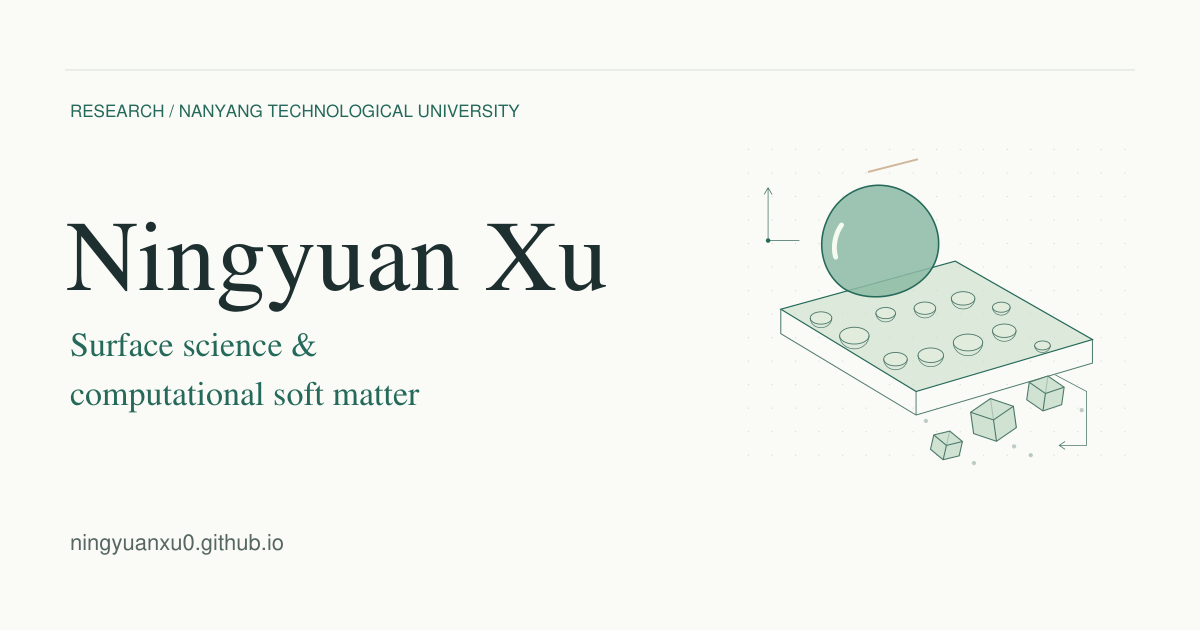
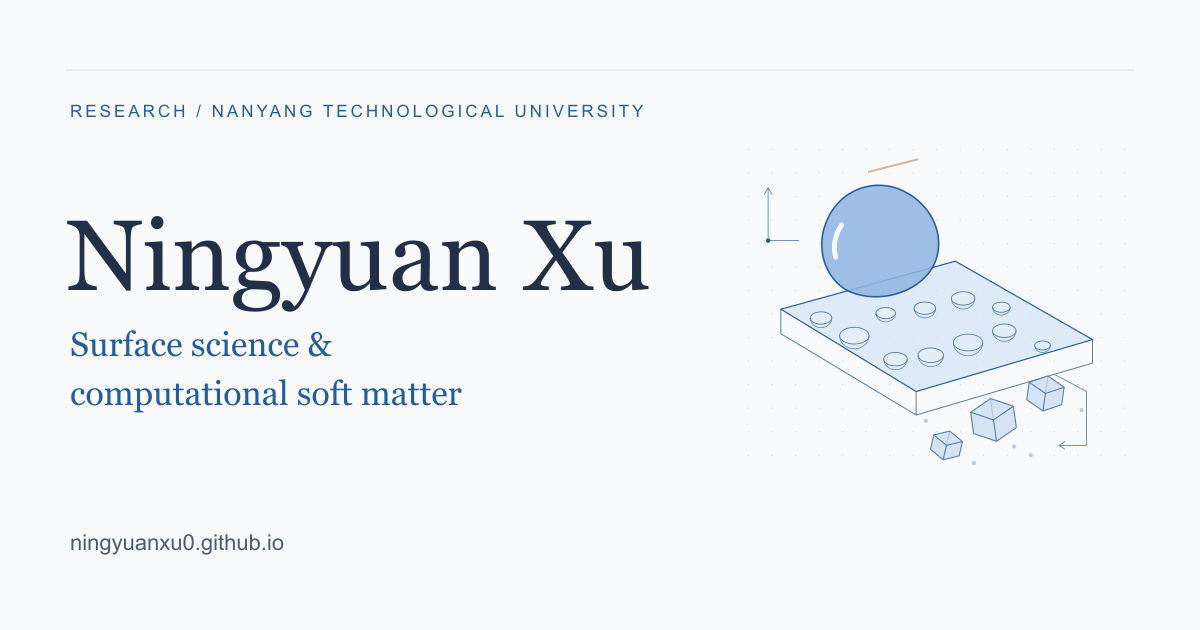
Switch academic homepage to a coordinated blue theme

diff --git a/assets/css/style.css b/assets/css/style.css
@@ -1,26 +1,26 @@
 /* Academic homepage: local fonts, readable type and a compact content hierarchy. */
 :root {
   color-scheme: light;
-  --paper: #fafaf7;
+  --paper: #f8fafc;
   --surface: #ffffff;
-  --ink: #23332e;
-  --muted: #4d5d55;
-  --accent: #196659;
-  --line: #d5ded6;
-  --soft: #eef3ed;
+  --ink: #213047;
+  --muted: #4b5c72;
+  --accent: #245c9e;
+  --line: #d4dfeb;
+  --soft: #edf3fa;
   --serif: Georgia, 'Times New Roman', serif;
   --sans: Arial, 'Helvetica Neue', Helvetica, sans-serif;
   --mono: 'SFMono-Regular', Consolas, 'Liberation Mono', monospace;
 }
 [data-theme='dark'] {
   color-scheme: dark;
-  --paper: #172522;
-  --surface: #1c2d29;
-  --ink: #edf2e8;
-  --muted: #bdcbbf;
-  --accent: #a1d8b9;
-  --line: #40594d;
-  --soft: #243a30;
+  --paper: #121e30;
+  --surface: #18283e;
+  --ink: #e8eef7;
+  --muted: #b8c8dd;
+  --accent: #91bcf1;
+  --line: #3b506c;
+  --soft: #20344f;
 }
 * { box-sizing: border-box; }
 html { scroll-behavior: smooth; scroll-padding-top: 108px; }
@@ -41,7 +41,7 @@ p { margin: 0 0 1rem; }
 h1, h2, h3, h4 { line-height: 1.35; margin: 0; font-weight: 600; }
 img { max-width: 100%; display: block; }
 svg { flex-shrink: 0; }
-::selection { background: #c6ddcb; color: #17332a; }
+::selection { background: #cfe1fa; color: #173b68; }
 .wrap { width: min(1100px, calc(100% - 80px)); margin-inline: auto; }
 .skip { position: fixed; top: 8px; left: 8px; background: var(--surface); padding: 10px 16px; transform: translateY(-180%); z-index: 100; }
 .skip:focus { transform: none; }
@@ -202,7 +202,7 @@ svg { flex-shrink: 0; }
   *, *::before, *::after { transition: none !important; animation: none !important; }
 }
 @media print {
-  :root, [data-theme='dark'] { --paper: #fff; --surface: #fff; --ink: #111; --muted: #333; --accent: #174c3f; --line: #ccc; --soft: #f5f5f5; }
+  :root, [data-theme='dark'] { --paper: #fff; --surface: #fff; --ink: #111; --muted: #333; --accent: #1d4e89; --line: #ccc; --soft: #f5f5f5; }
   body { font-size: 11pt; background: #fff; }
   .wrap { width: 100%; max-width: none; }
   .site-header, .footer, .copy-button, .live-message, .cv-toolbar, .skip { display: none !important; }

diff --git a/404.html b/404.html
@@ -1,1 +1,1 @@
-<!doctype html><html lang="en"><head><meta charset="utf-8"><meta name="viewport" content="width=device-width,initial-scale=1"><meta name="robots" content="noindex"><title>Page not found | Ningyuan Xu</title><style>body{background:#fafaf7;color:#1d302f;font:18px/1.7 Arial,Helvetica,sans-serif;margin:0;min-height:100vh;display:grid;place-items:center}main{max-width:480px;padding:35px}h1{font:52px Georgia,serif;margin:12px 0}small{font:14px Arial,Helvetica,sans-serif;color:#196659}a{color:#196659;text-underline-offset:5px}</style></head><body><main><small>404 / NINGYUAN XU</small><h1>Page not found.</h1><p>The page may have moved. You can find my research, publications and contact details on the homepage.</p><a href="https://ningyuanxu0.github.io/">Return to homepage →</a></main></body></html>
+<!doctype html><html lang="en"><head><meta charset="utf-8"><meta name="viewport" content="width=device-width,initial-scale=1"><meta name="robots" content="noindex"><title>Page not found | Ningyuan Xu</title><style>body{background:#f8fafc;color:#213047;font:18px/1.7 Arial,Helvetica,sans-serif;margin:0;min-height:100vh;display:grid;place-items:center}main{max-width:480px;padding:35px}h1{font:52px Georgia,serif;margin:12px 0}small{font:14px Arial,Helvetica,sans-serif;color:#245c9e}a{color:#245c9e;text-underline-offset:5px}</style></head><body><main><small>404 / NINGYUAN XU</small><h1>Page not found.</h1><p>The page may have moved. You can find my research, publications and contact details on the homepage.</p><a href="https://ningyuanxu0.github.io/">Return to homepage →</a></main></body></html>

diff --git a/index.html b/index.html
@@ -6,7 +6,7 @@
   <title>Ningyuan Xu | Surface Science &amp; Soft Matter</title>
   <meta name="description" content="Ningyuan Xu — M.Sc. student at Nanyang Technological University, working on surface science, wetting and depletion-driven colloidal assembly.">
   <meta name="author" content="Ningyuan Xu">
-  <meta name="theme-color" content="#196659">
+  <meta name="theme-color" content="#245c9e">
   <meta name="color-scheme" content="light dark">
   <link rel="canonical" href="https://ningyuanxu0.github.io/">
   <link rel="icon" href="assets/images/favicon.svg" type="image/svg+xml">

diff --git a/cv.html b/cv.html
@@ -6,7 +6,7 @@
   <title>Ningyuan Xu | Academic CV</title>
   <meta name="description" content="Ningyuan Xu — M.Sc. student at Nanyang Technological University, working on surface science, wetting and depletion-driven colloidal assembly.">
   <meta name="author" content="Ningyuan Xu">
-  <meta name="theme-color" content="#196659">
+  <meta name="theme-color" content="#245c9e">
   <meta name="color-scheme" content="light dark">
   <link rel="canonical" href="https://ningyuanxu0.github.io/cv.html">
   <link rel="icon" href="assets/images/favicon.svg" type="image/svg+xml">

diff --git a/scripts/draw_assets.py b/scripts/draw_assets.py
@@ -5,7 +5,7 @@ import math
 
 ROOT = Path(__file__).resolve().parents[1]
 OUT = ROOT / "assets/images"
-INK, GREEN, LIGHT, WARM = "#4b786a", "#246959", "#d0e2d1", "#d0b69a"
+INK, BLUE, LIGHT, WARM = "#537ba8", "#245c9e", "#d5e4f5", "#d0b69a"
 
 
 def svg(body, width=320, height=210):
@@ -22,7 +22,7 @@ def dot(x, y, r=2.5):
 
 def draw():
     OUT.mkdir(parents=True, exist_ok=True)
-    body = '<path d="M25 164 153 79 295 153" stroke="#8ba798" stroke-width=".8" stroke-dasharray="3 5"/>'
+    body = '<path d="M25 164 153 79 295 153" stroke="#89a5c4" stroke-width=".8" stroke-dasharray="3 5"/>'
     centres = [(89,73,19,-12),(157,54,20,6),(222,80,19,16),(64,124,21,11),(133,112,25,-4),(210,131,23,-11),(164,167,21,17),(266,159,17,5)]
     for x,y,s,r in centres:
         body += cube(x,y,s,r)
@@ -31,32 +31,32 @@ def draw():
         if all(math.hypot(x-cx,y-cy)>s*1.35 for cx,cy,s,_ in centres):
             body+=dot(x,y,2+(i%3)*.4)
     (OUT/'assembly.svg').write_text(svg(body), encoding='utf-8')
-    body = f'<path d="M19 145H301V180H19Z" fill="#dce7d9" fill-opacity=".6" stroke="{INK}" stroke-width="1"/><path d="M20 146c14-18 20-12 30-1s19-16 31-6 21-17 35-4 23-14 35-3 18-12 30-2 22-13 34-3 18-12 30-1 24-12 39-1 14 1 17 3" stroke="{GREEN}" stroke-width="1.4"/>'
+    body = f'<path d="M19 145H301V180H19Z" fill="#dfebf7" fill-opacity=".6" stroke="{INK}" stroke-width="1"/><path d="M20 146c14-18 20-12 30-1s19-16 31-6 21-17 35-4 23-14 35-3 18-12 30-2 22-13 34-3 18-12 30-1 24-12 39-1 14 1 17 3" stroke="{BLUE}" stroke-width="1.4"/>'
     for x,y,r in [(44,162,10),(88,161,14),(137,158,12),(187,160,15),(234,160,12),(277,163,10)]:
-        body+=f'<circle cx="{x}" cy="{y}" r="{r}" fill="#fafaf7" fill-opacity=".6" stroke="{INK}" stroke-width="1"/><circle cx="{x}" cy="{y}" r="{r-3}" stroke="{INK}" stroke-width=".5" stroke-dasharray="2 3"/>'
-    body += f'<path d="M126 123c-20-14-26-41-12-61 15-23 48-29 72-12 23 16 28 46 9 65-17 19-48 22-69 8Z" fill="#9bcbbb" fill-opacity=".65" stroke="{GREEN}" stroke-width="1.5"/><path d="M125 65c-7 8-11 18-10 29" stroke="#fafaf7" stroke-width="4" stroke-linecap="round"/><path d="M223 52v54m-5-6 5 6 5-6" stroke="{INK}" stroke-width="1" stroke-dasharray="2 3"/>'
+        body+=f'<circle cx="{x}" cy="{y}" r="{r}" fill="#f8fafc" fill-opacity=".6" stroke="{INK}" stroke-width="1"/><circle cx="{x}" cy="{y}" r="{r-3}" stroke="{INK}" stroke-width=".5" stroke-dasharray="2 3"/>'
+    body += f'<path d="M126 123c-20-14-26-41-12-61 15-23 48-29 72-12 23 16 28 46 9 65-17 19-48 22-69 8Z" fill="#9dbfe5" fill-opacity=".65" stroke="{BLUE}" stroke-width="1.5"/><path d="M125 65c-7 8-11 18-10 29" stroke="#f8fafc" stroke-width="4" stroke-linecap="round"/><path d="M223 52v54m-5-6 5 6 5-6" stroke="{INK}" stroke-width="1" stroke-dasharray="2 3"/>'
     (OUT/'wetting.svg').write_text(svg(body), encoding='utf-8')
     body = ''
     for x in range(25,296,18):
         body+=f'<path d="M{x} 135v48" stroke="{INK}" stroke-width="1" stroke-opacity=".7"/>'
     for y in range(137,184,11):
         body+=f'<path d="M25 {y}h270" stroke="{INK}" stroke-width="1" stroke-opacity=".7"/>'
-    body+=f'<circle cx="66" cy="63" r="21" fill="#a9cfbb" stroke="{INK}" stroke-width="1.2"/><path d="M146 92c-22 0-34 11-31 21s72 9 74-1-20-20-43-20Z" fill="#a9cfbb" stroke="{INK}" stroke-width="1.2"/><path d="M232 120c-12-8-18-24-14-36 4-14 17-28 24-39 6 12 20 25 24 39 5 16-1 32-15 37" fill="#a9cfbb" stroke="{INK}" stroke-width="1.2"/><path d="M98 68h25m-6-4 6 4-6 4M179 65h25m-6-4 6 4-6 4M66 96v23m-4-5 4 5 4-5" stroke="{INK}" stroke-width="1"/><path d="M112 193h76" stroke="{WARM}" stroke-width="2"/>'
+    body+=f'<circle cx="66" cy="63" r="21" fill="#acc9eb" stroke="{INK}" stroke-width="1.2"/><path d="M146 92c-22 0-34 11-31 21s72 9 74-1-20-20-43-20Z" fill="#acc9eb" stroke="{INK}" stroke-width="1.2"/><path d="M232 120c-12-8-18-24-14-36 4-14 17-28 24-39 6 12 20 25 24 39 5 16-1 32-15 37" fill="#acc9eb" stroke="{INK}" stroke-width="1.2"/><path d="M98 68h25m-6-4 6 4-6 4M179 65h25m-6-4 6 4-6 4M66 96v23m-4-5 4 5 4-5" stroke="{INK}" stroke-width="1"/><path d="M112 193h76" stroke="{WARM}" stroke-width="2"/>'
     (OUT/'droplets.svg').write_text(svg(body), encoding='utf-8')
     body=''
     for x in range(25,411,24):
         for y in range(28,361,24):
-            body+=f'<circle cx="{x}" cy="{y}" r=".65" fill="#7f9c8d" fill-opacity=".35"/>'
-    body+=f'<path d="m58 191 178-49 140 80-180 53Z" fill="#c9dec6" fill-opacity=".58" stroke="{GREEN}" stroke-width="1.2"/><path d="M58 191v25l138 83 180-53v-24M196 275v24" stroke="{INK}" stroke-width="1"/>'
+            body+=f'<circle cx="{x}" cy="{y}" r=".65" fill="#829fbe" fill-opacity=".35"/>'
+    body+=f'<path d="m58 191 178-49 140 80-180 53Z" fill="#cbdff4" fill-opacity=".58" stroke="{BLUE}" stroke-width="1.2"/><path d="M58 191v25l138 83 180-53v-24M196 275v24" stroke="{INK}" stroke-width="1"/>'
     for x,y,r in [(99,200,11),(133,218,15),(175,242,12),(211,238,13),(249,225,15),(286,213,12),(244,180,12),(205,190,11),(165,195,10),(283,189,9),(325,228,8)]:
-        body+=f'<ellipse cx="{x}" cy="{y}" rx="{r}" ry="{r*.57}" fill="#e2ecdc" stroke="{INK}" stroke-width=".9"/><path d="M{x-r} {y}a{r} {r*.9} 0 0 0 {r*2} 0" stroke="{INK}" stroke-width=".7"/>'
-    body+=f'<path d="M124 171c-22-14-30-43-20-68 13-35 52-48 82-31 32 17 43 56 23 82-18 23-57 32-85 17Z" fill="#8dbba6" fill-opacity=".85" stroke="{GREEN}" stroke-width="1.6"/><path d="M120 105c-7 10-9 23-6 33" stroke="#f6fbf0" stroke-width="5" stroke-linecap="round"/>'
+        body+=f'<ellipse cx="{x}" cy="{y}" rx="{r}" ry="{r*.57}" fill="#e4eef9" stroke="{INK}" stroke-width=".9"/><path d="M{x-r} {y}a{r} {r*.9} 0 0 0 {r*2} 0" stroke="{INK}" stroke-width=".7"/>'
+    body+=f'<path d="M124 171c-22-14-30-43-20-68 13-35 52-48 82-31 32 17 43 56 23 82-18 23-57 32-85 17Z" fill="#8eb5e0" fill-opacity=".85" stroke="{BLUE}" stroke-width="1.6"/><path d="M120 105c-7 10-9 23-6 33" stroke="#f5f9ff" stroke-width="5" stroke-linecap="round"/>'
     body+=cube(275,304,22,-8)+cube(328,277,18,8)+cube(227,330,15,13)
-    body+=f'<path d="M77 121H45V67m0 0-4 7m4-7 4 7M338 258l32 17v55h-28m6-4-6 4 6 4" stroke="{INK}" stroke-width=".8"/><circle cx="45" cy="121" r="2.3" fill="{GREEN}"/><path d="m147 51 51-13" stroke="{WARM}" stroke-width="2"/>'
+    body+=f'<path d="M77 121H45V67m0 0-4 7m4-7 4 7M338 258l32 17v55h-28m6-4-6 4 6 4" stroke="{INK}" stroke-width=".8"/><circle cx="45" cy="121" r="2.3" fill="{BLUE}"/><path d="m147 51 51-13" stroke="{WARM}" stroke-width="2"/>'
     for x,y in [(296,331),(313,340),(365,294),(206,305),(255,348)]:
         body+=dot(x,y,2.2)
     (OUT/'interface.svg').write_text(svg(body,420,375), encoding='utf-8')
-    social=f'''<rect width="1200" height="630" fill="#fafaf7"/><path d="M65 70h1070" stroke="#d9e0da"/><text x="70" y="117" fill="{GREEN}" font-family="Arial,sans-serif" font-size="17" letter-spacing="3">RESEARCH / NANYANG TECHNOLOGICAL UNIVERSITY</text><text x="66" y="290" fill="#1d302f" font-family="Georgia,serif" font-size="100">Ningyuan Xu</text><text x="70" y="356" fill="{GREEN}" font-family="Georgia,serif" font-size="34">Surface science &amp;</text><text x="70" y="405" fill="{GREEN}" font-family="Georgia,serif" font-size="34">computational soft matter</text><text x="70" y="550" fill="#566663" font-family="Arial,sans-serif" font-size="22">ningyuanxu0.github.io</text><g transform="translate(724 122) scale(.98)">{body}</g>'''
+    social=f'''<rect width="1200" height="630" fill="#f8fafc"/><path d="M65 70h1070" stroke="#d4dfeb"/><text x="70" y="117" fill="{BLUE}" font-family="Arial,sans-serif" font-size="17" letter-spacing="3">RESEARCH / NANYANG TECHNOLOGICAL UNIVERSITY</text><text x="66" y="290" fill="#213047" font-family="Georgia,serif" font-size="100">Ningyuan Xu</text><text x="70" y="356" fill="{BLUE}" font-family="Georgia,serif" font-size="34">Surface science &amp;</text><text x="70" y="405" fill="{BLUE}" font-family="Georgia,serif" font-size="34">computational soft matter</text><text x="70" y="550" fill="#4b5c72" font-family="Arial,sans-serif" font-size="22">ningyuanxu0.github.io</text><g transform="translate(724 122) scale(.98)">{body}</g>'''
     (OUT/'social-card.svg').write_text(svg(social,1200,630), encoding='utf-8')
     try:
         import cairosvg

diff --git a/scripts/build.py b/scripts/build.py
@@ -69,7 +69,7 @@ def make_head(p, title=None, path="/", description=None):
   <title>{E(title)}</title>
   <meta name="description" content="{E(desc)}">
   <meta name="author" content="{E(p['name'])}">
-  <meta name="theme-color" content="#196659">
+  <meta name="theme-color" content="#245c9e">
   <meta name="color-scheme" content="light dark">
   <link rel="canonical" href="{E(canonical)}">
   <link rel="icon" href="assets/images/favicon.svg" type="image/svg+xml">
@@ -327,7 +327,7 @@ def main():
     (out / "robots.txt").write_text(f'User-agent: *\nAllow: /\nSitemap: {p["site_url"]}/sitemap.xml\n', encoding="utf-8")
     urls = "".join(f'<url><loc>{E(p["site_url"] + path)}</loc><lastmod>{p["updated"]}</lastmod></url>' for path in ("/", "/cv.html"))
     (out / "sitemap.xml").write_text(f'<?xml version="1.0" encoding="UTF-8"?>\n<urlset xmlns="http://www.sitemaps.org/schemas/sitemap/0.9">{urls}</urlset>\n', encoding="utf-8")
-    (out / "404.html").write_text('''<!doctype html><html lang="en"><head><meta charset="utf-8"><meta name="viewport" content="width=device-width,initial-scale=1"><meta name="robots" content="noindex"><title>Page not found | Ningyuan Xu</title><style>body{background:#fafaf7;color:#1d302f;font:18px/1.7 Arial,Helvetica,sans-serif;margin:0;min-height:100vh;display:grid;place-items:center}main{max-width:480px;padding:35px}h1{font:52px Georgia,serif;margin:12px 0}small{font:14px Arial,Helvetica,sans-serif;color:#196659}a{color:#196659;text-underline-offset:5px}</style></head><body><main><small>404 / NINGYUAN XU</small><h1>Page not found.</h1><p>The page may have moved. You can find my research, publications and contact details on the homepage.</p><a href="https://ningyuanxu0.github.io/">Return to homepage →</a></main></body></html>''', encoding="utf-8")
+    (out / "404.html").write_text('''<!doctype html><html lang="en"><head><meta charset="utf-8"><meta name="viewport" content="width=device-width,initial-scale=1"><meta name="robots" content="noindex"><title>Page not found | Ningyuan Xu</title><style>body{background:#f8fafc;color:#213047;font:18px/1.7 Arial,Helvetica,sans-serif;margin:0;min-height:100vh;display:grid;place-items:center}main{max-width:480px;padding:35px}h1{font:52px Georgia,serif;margin:12px 0}small{font:14px Arial,Helvetica,sans-serif;color:#245c9e}a{color:#245c9e;text-underline-offset:5px}</style></head><body><main><small>404 / NINGYUAN XU</small><h1>Page not found.</h1><p>The page may have moved. You can find my research, publications and contact details on the homepage.</p><a href="https://ningyuanxu0.github.io/">Return to homepage →</a></main></body></html>''', encoding="utf-8")
     print(f"Built homepage, CV, bibliography and metadata in {out}")
 
 

diff --git a/docs/VALIDATION.md b/docs/VALIDATION.md
@@ -1,6 +1,6 @@
 # Release validation
 
-Updated on 17 October 2026 for the readability, supervisor, patent, authorship and journal-metric revision.
+Updated on 17 October 2026 for the readability, supervisor, patent, authorship, journal-metric and blue-theme revisions.
 
 ## Source checks
 
@@ -12,6 +12,8 @@ Updated on 17 October 2026 for the readability, supervisor, patent, authorship a
 - Checked the three published-paper BibTeX records.
 - Checked complete author lists with 5, 12 and 9 names, owner positions 1, 6 and 3, and explicit first-author/co-author labels in the homepage and CV.
 - Checked 2025 JIF values 23.7, 11.8 and 17.3, 2026 JCR Q1 labels and metric-source links.
+- Regenerated the blue SVG illustrations and 1200 × 630 PNG social preview; synchronized the favicon, browser theme colour and custom 404 palette.
+- Checked light and dark text colours against the page, surface and label backgrounds: all normal-text combinations exceed the WCAG AA 4.5:1 contrast threshold (minimum 6.07:1).
 - JavaScript syntax and whitespace checks are run before publishing.
 
 ## Browser checks
@@ -22,6 +24,7 @@ Updated on 17 October 2026 for the readability, supervisor, patent, authorship a
 - Exercised mobile menu opening and closing, theme switching and BibTeX expansion; the browser reported successful citation copying.
 - Checked supervisor cards, patent records and the expandable academic email list.
 - Checked the CV in desktop and phone layouts before release.
+- Rechecked the blue revision in desktop light/dark views and 390px homepage/CV views; no horizontal overflow.
 
 ## Content verification
 

diff --git a/README.md b/README.md
@@ -18,6 +18,7 @@ A static academic homepage for Ningyuan Xu, M.Sc. student in Chemical Modelling 
 - All six owner email addresses. Additional academic addresses are available in an expandable contact section.
 - DOI links, BibTeX display, copy and downloads; public records for the two published patent applications.
 - Responsive navigation, light/dark themes, keyboard focus styles and reduced-motion support.
+- An academic blue palette across links, author labels, the CV, favicon and social preview, with a navy dark theme.
 - Search/social metadata, sitemap, robots.txt, favicon and a custom 404 page.
 - Local fonts and static files; no third-party scripts, analytics, forms or runtime framework.
 
